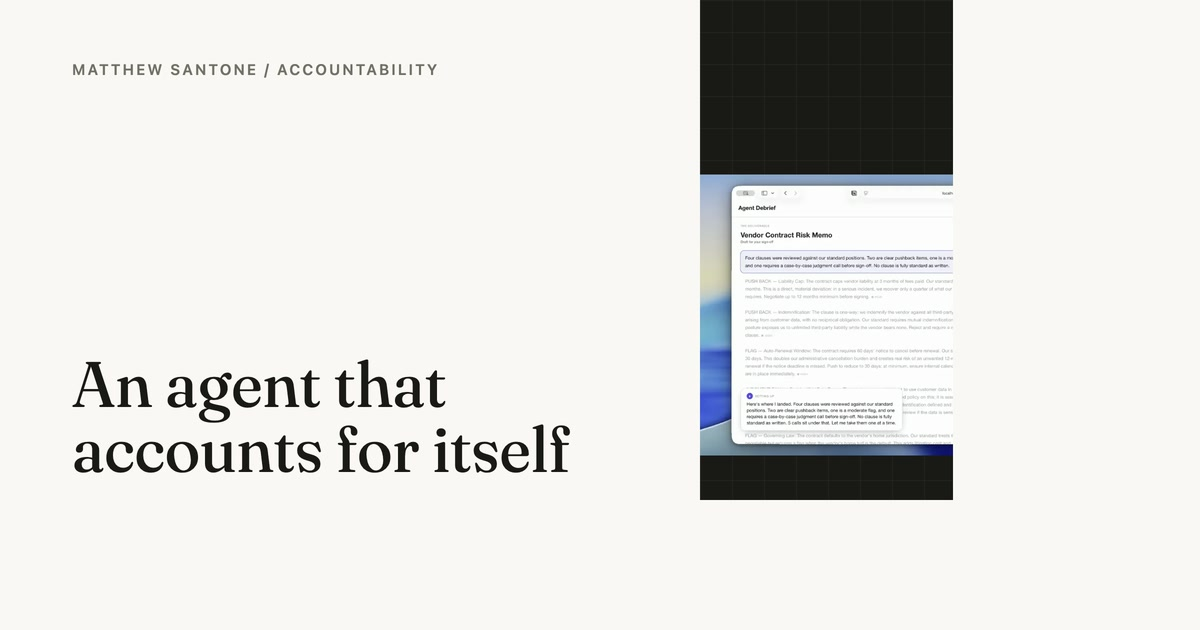
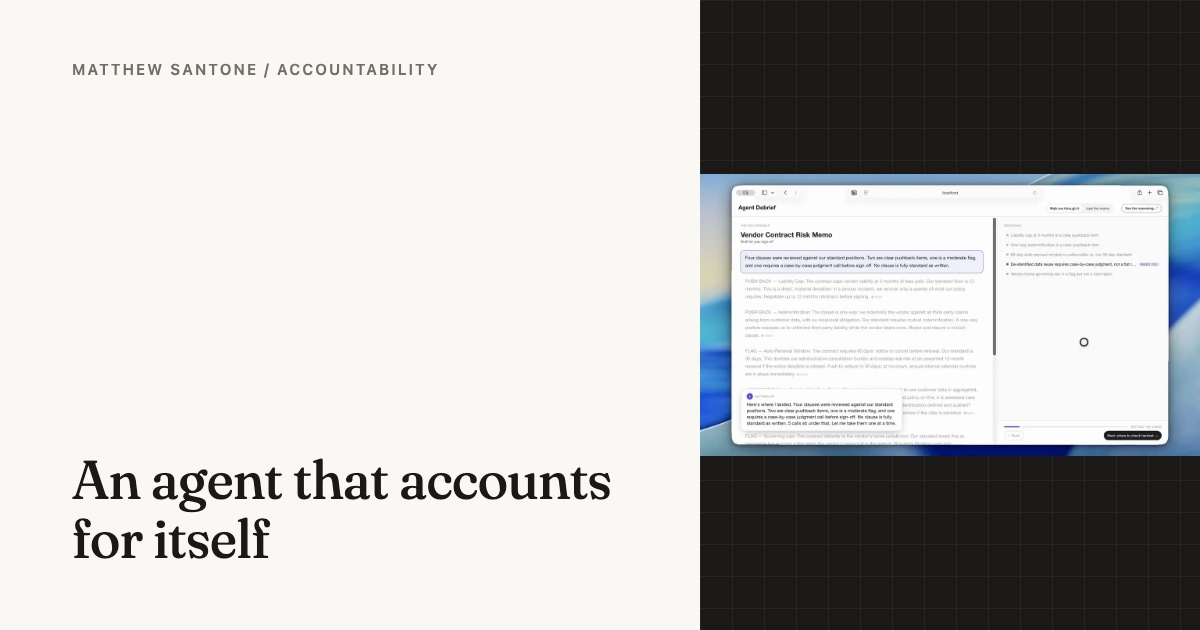
Say other teams made it their standard
"Coming to me for it" left "it" without a clear antecedent and framed
adoption as a service request. The body copy already had the accurate
version: other teams pointed to Folio as the bar and integrated it.

Re-rendering the card exposed a defect in all four social images. They
were 953x500 captures padded out to 1200x630, so every panel was cut
off mid-content and every card carried a dead band. Regenerated them at
a true 1200x630 in headless Chrome.

Added tools/make-social-cards.js, which reads each headline from the
built page so card text cannot drift from page copy again.

diff --git a/tools/make-social-cards.js b/tools/make-social-cards.js
@@ -1,0 +1,133 @@
+// Renders the Open Graph cards from the built site so card text can never drift from page copy.
+const { execFileSync } = require("child_process");
+const fs = require("fs");
+const path = require("path");
+const { site, pieces } = require("../src/content.js");
+
+const ROOT = path.resolve(__dirname, "..");
+const DIST = path.join(ROOT, "dist");
+const ORIGIN = "http://localhost:3001";
+const CHROME = "/Applications/Google Chrome.app/Contents/MacOS/Google Chrome";
+
+const strip = (s) =>
+  s
+    .replace(/<[^>]+>/g, "")
+    .replace(/\s+/g, " ")
+    .replace(/&amp;/g, "&")
+    .replace(/&#39;/g, "'")
+    .replace(/&quot;/g, '"')
+    .trim();
+
+function headlineOf(slug) {
+  const file = path.join(DIST, slug, "index.html");
+  const match = fs.readFileSync(file, "utf8").match(/<h1[^>]*>([\s\S]*?)<\/h1>/);
+  if (!match) throw new Error(`No h1 in ${slug}`);
+  return strip(match[1]);
+}
+
+// Poster frames stand in for the video leads.
+const VISUALS = {
+  "agent-debrief": "/assets/agent-debrief/03_memo-poster.webp",
+  editorial: "/assets/editorial/posters/liebeck.webp",
+  steering: "/assets/steering/01_create-poster.webp",
+};
+
+const cards = [
+  {
+    name: "home",
+    eyebrow: site.name,
+    headline: site.tagline,
+    visual: "/" + site.homeExternalPreview.image,
+  },
+  ...pieces
+    .filter((p) => p.social && VISUALS[p.slug])
+    .map((p) => ({
+      name: p.slug,
+      eyebrow: `${site.name} / ${p.kicker}`,
+      headline: headlineOf(p.slug),
+      visual: VISUALS[p.slug],
+    })),
+];
+
+const sizeFor = (text) => (text.length <= 40 ? 54 : text.length <= 60 ? 48 : 44);
+
+const escape = (s) => s.replace(/&/g, "&amp;").replace(/</g, "&lt;");
+
+const template = (card) => `<!doctype html>
+<meta charset="utf-8">
+<style>
+  @font-face {
+    font-family: "Fraunces";
+    src: url("/fonts/fraunces-latin.woff2") format("woff2");
+    font-weight: 100 900;
+    font-display: block;
+  }
+  * { box-sizing: border-box; }
+  html, body { margin: 0; padding: 0; }
+  body {
+    width: 1200px; height: 630px; overflow: hidden;
+    background: #faf8f4; color: #1b1917;
+    display: grid; grid-template-columns: 700px 500px;
+  }
+  .copy { padding: 62px 56px 62px 72px; display: flex; flex-direction: column; overflow: hidden; }
+  .eyebrow {
+    font: 600 15px/1 -apple-system, BlinkMacSystemFont, "Segoe UI", sans-serif;
+    letter-spacing: .15em; text-transform: uppercase; color: #756e66;
+  }
+  .headline {
+    margin: auto 0 0; font-family: "Fraunces", Georgia, serif;
+    font-size: ${sizeFor(card.headline)}px; font-weight: 440;
+    line-height: 1.08; letter-spacing: -.01em;
+  }
+  .visual { position: relative; display: grid; place-items: center; background: #1b1917; overflow: hidden; }
+  .visual::before {
+    content: ""; position: absolute; inset: 0;
+    background-image:
+      linear-gradient(rgba(250,248,244,.05) 1px, transparent 1px),
+      linear-gradient(90deg, rgba(250,248,244,.05) 1px, transparent 1px);
+    background-size: 32px 32px;
+  }
+  .visual img { position: relative; width: 100%; height: auto; max-height: 100%; object-fit: contain; }
+</style>
+<section class="copy">
+  <div class="eyebrow">${escape(card.eyebrow)}</div>
+  <h1 class="headline">${escape(card.headline)}</h1>
+</section>
+<div class="visual"><img src="${card.visual}" alt=""></div>
+`;
+
+const scratchHtml = path.join(DIST, "_card.html");
+const outDir = path.join(ROOT, "assets", "social");
+
+for (const card of cards) {
+  fs.writeFileSync(scratchHtml, template(card));
+  const png = path.join("/tmp", `card-${card.name}.png`);
+  execFileSync(
+    CHROME,
+    [
+      "--headless=new",
+      "--disable-gpu",
+      "--hide-scrollbars",
+      "--force-device-scale-factor=1",
+      "--virtual-time-budget=5000",
+      "--window-size=1200,630",
+      `--screenshot=${png}`,
+      `${ORIGIN}/_card.html`,
+    ],
+    { stdio: "ignore" }
+  );
+  const jpg = path.join(outDir, `${card.name}.jpg`);
+  execFileSync("sips", ["-s", "format", "jpeg", "-s", "formatOptions", "84", png, "--out", jpg], {
+    stdio: "ignore",
+  });
+  const dims = execFileSync("sips", ["-g", "pixelWidth", "-g", "pixelHeight", jpg], {
+    encoding: "utf8",
+  });
+  const w = dims.match(/pixelWidth: (\d+)/)[1];
+  const h = dims.match(/pixelHeight: (\d+)/)[1];
+  if (w !== "1200" || h !== "630") throw new Error(`${card.name}: got ${w}x${h}`);
+  console.log(`${card.name.padEnd(14)} ${w}x${h}  ${card.headline}`);
+}
+
+fs.unlinkSync(scratchHtml);
+console.log(`\nWrote ${cards.length} cards to assets/social/`);

diff --git a/src/content.js b/src/content.js
@@ -203,7 +203,7 @@ const pieces = [
     kicker: "Judgment and pull",
     social: {
       image: "assets/social/editorial.jpg",
-      alt: "I codified the house style, and teams started coming to me for it.",
+      alt: "I codified the house style, and other teams made it their standard.",
     },
     copy: "copy-editorial.md",
     // The only approved pull-quote on the site (CONTENT-SPEC.md). Rendered as an

diff --git a/copy-editorial.md b/copy-editorial.md
@@ -4,7 +4,7 @@ Status: DONE. Sets the template for the other three.
 
 ---
 
-# I codified the house style, and teams started coming to me for it
+# I codified the house style, and other teams made it their standard
 
 ## Fluent Expression had designed a report language in Figma. I codified it into skills and a render system so an LLM could compose with it, from a tort case to the rule against perpetuities, then merged the experiment into Microsoft's Researcher agent.
 
